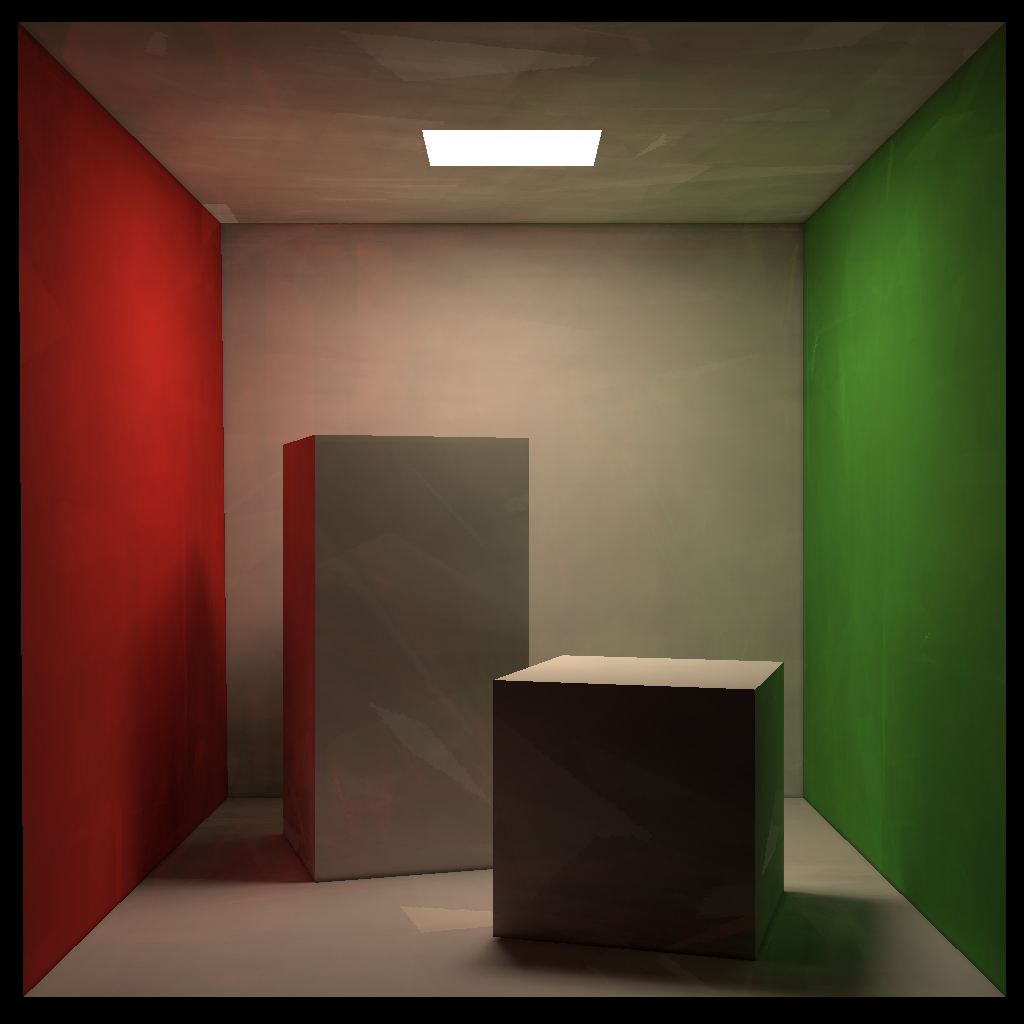
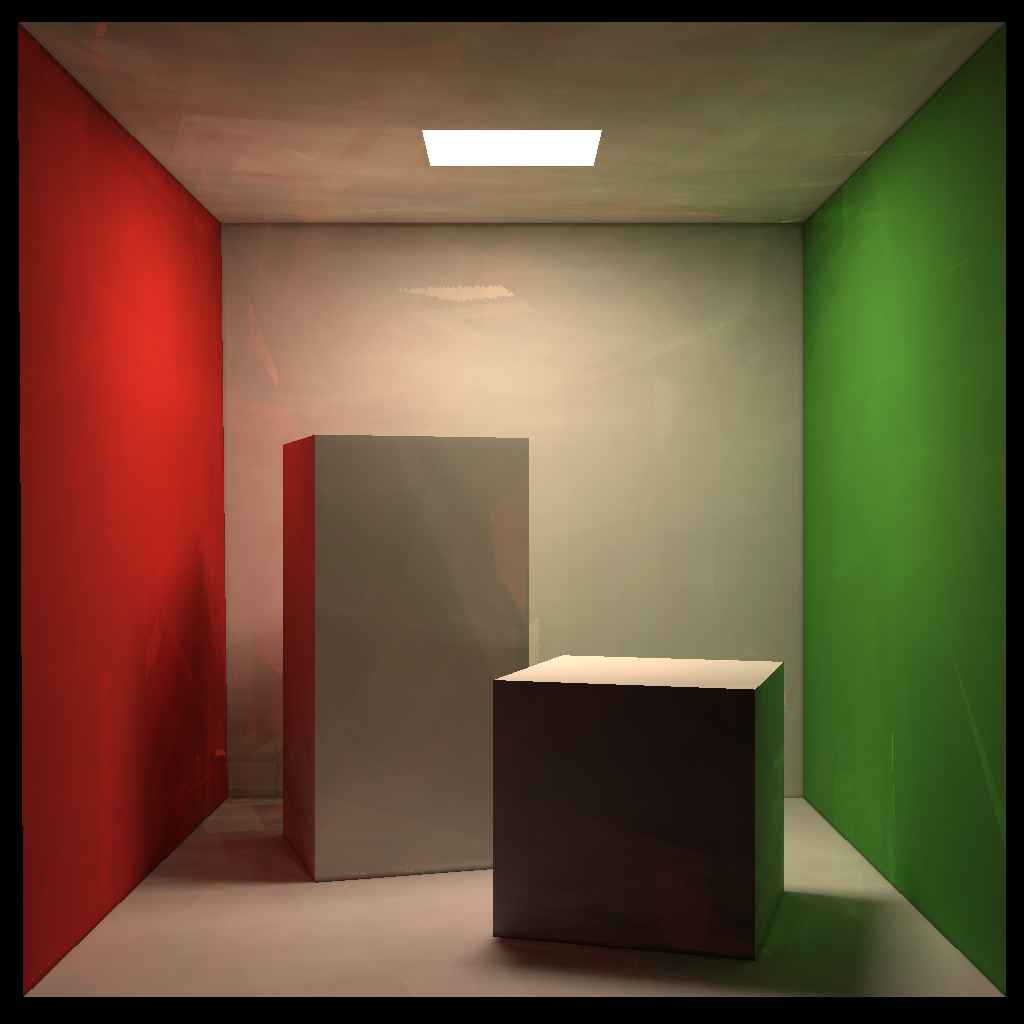
我为什么乘上0.7?

diff --git a/light_model.js b/light_model.js
@@ -8,7 +8,7 @@ import {
     TRACE_DEFINE,
     TRACE_DEPTH_DEFINE
 } from "./renderer_interface.js";
-import {mat4, vec3, vec4} from "./gl-matrix/index.js";
+import {mat3, mat4, vec3, vec4} from "./gl-matrix/index.js";
 
 class LightInfo extends BufferStruct {
     static WGSL = "struct LightInfo {normalAndFactor: vec4<f32>}";
@@ -743,7 +743,7 @@ ${LIGHT_MODEL_TRACE_CODE}
         let normalVec4 = [...normal, 0];
         vec4.transformMat4(normalVec4, normalVec4, this.modelInfo.normalModel.buffer);
         vec3.normalize(normal, normalVec4);
-        let fa = factor * this.areaSum * 0.7;
+        let fa = factor * this.areaSum;
         vec4.copy(this.lightInfo.normalAndFactor.buffer, [normal[0], normal[1], normal[2], fa]);
         this.renderer.device.queue.writeBuffer(this.lightInfoBuffer, 0, this.lightInfo.buffer);
         pass.setBindGroup(0, this.lightBindGroup0);
